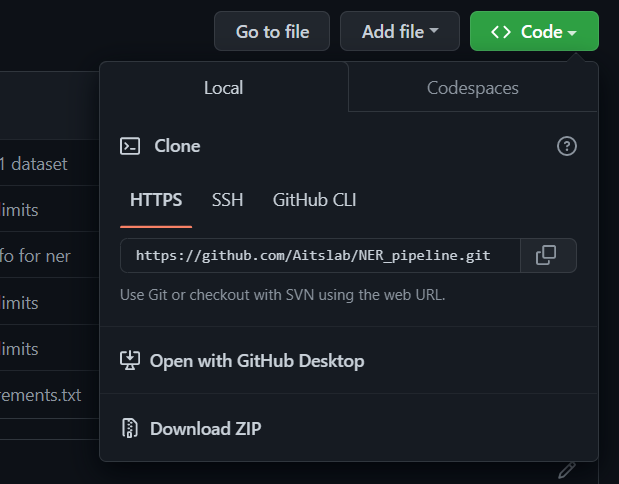
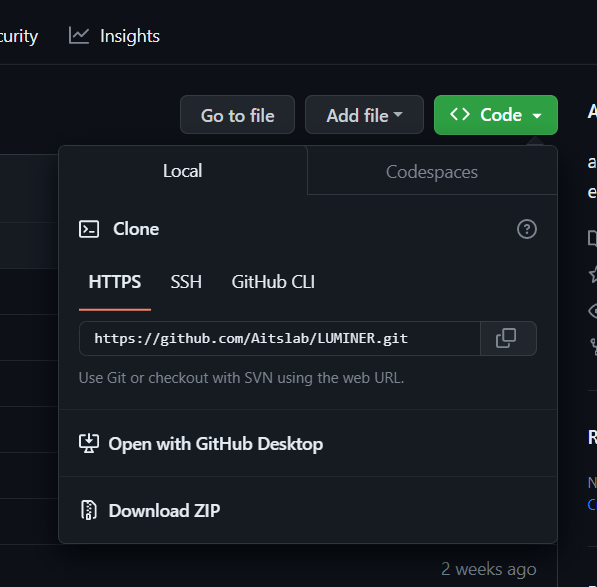
readme

diff --git a/README.md b/README.md
@@ -13,7 +13,7 @@ LUMINER is a customizable End-to-End Information Retrieval Pipeline developed at
 
 
 ```console
-git clone https://github.com/Aitslab/CIRP
+git clone https://github.com/Aitslab/LUMINER
 
 ```
 
@@ -40,6 +40,6 @@ python main.py
 ___
 
 
-### The complete configuration and inference tutorial can be found here: [Tutorials](tutorials/Tutorial-pipeline.ipynb)  
+### The complete configuration and inference tutorial can be found here: [Tutorials](tutorials/Tutorial-pipeline.md)  
 #### For BioBERT model training script follow this [tutorial](tutorials/Tutorial-BioBERT_model_training.ipynb)
 #### All preprocessing scripts can be found [here](supplementary/preprocessing_scripts/)

diff --git a/tutorials/Tutorial-pipeline.md b/tutorials/Tutorial-pipeline.md
@@ -13,7 +13,7 @@ ___
 If you have git installed in the computer you can get the repository by simply opening a terminal window in the folder where you want to save the folder and write
 
 ```
-git clone https://github.com/Aitslab/NER_pipeline/
+git clone https://github.com/Aitslab/LUMINER/
 ```
 
 Alternatively, you can download the repository from github to your designated folder as a zip file:
